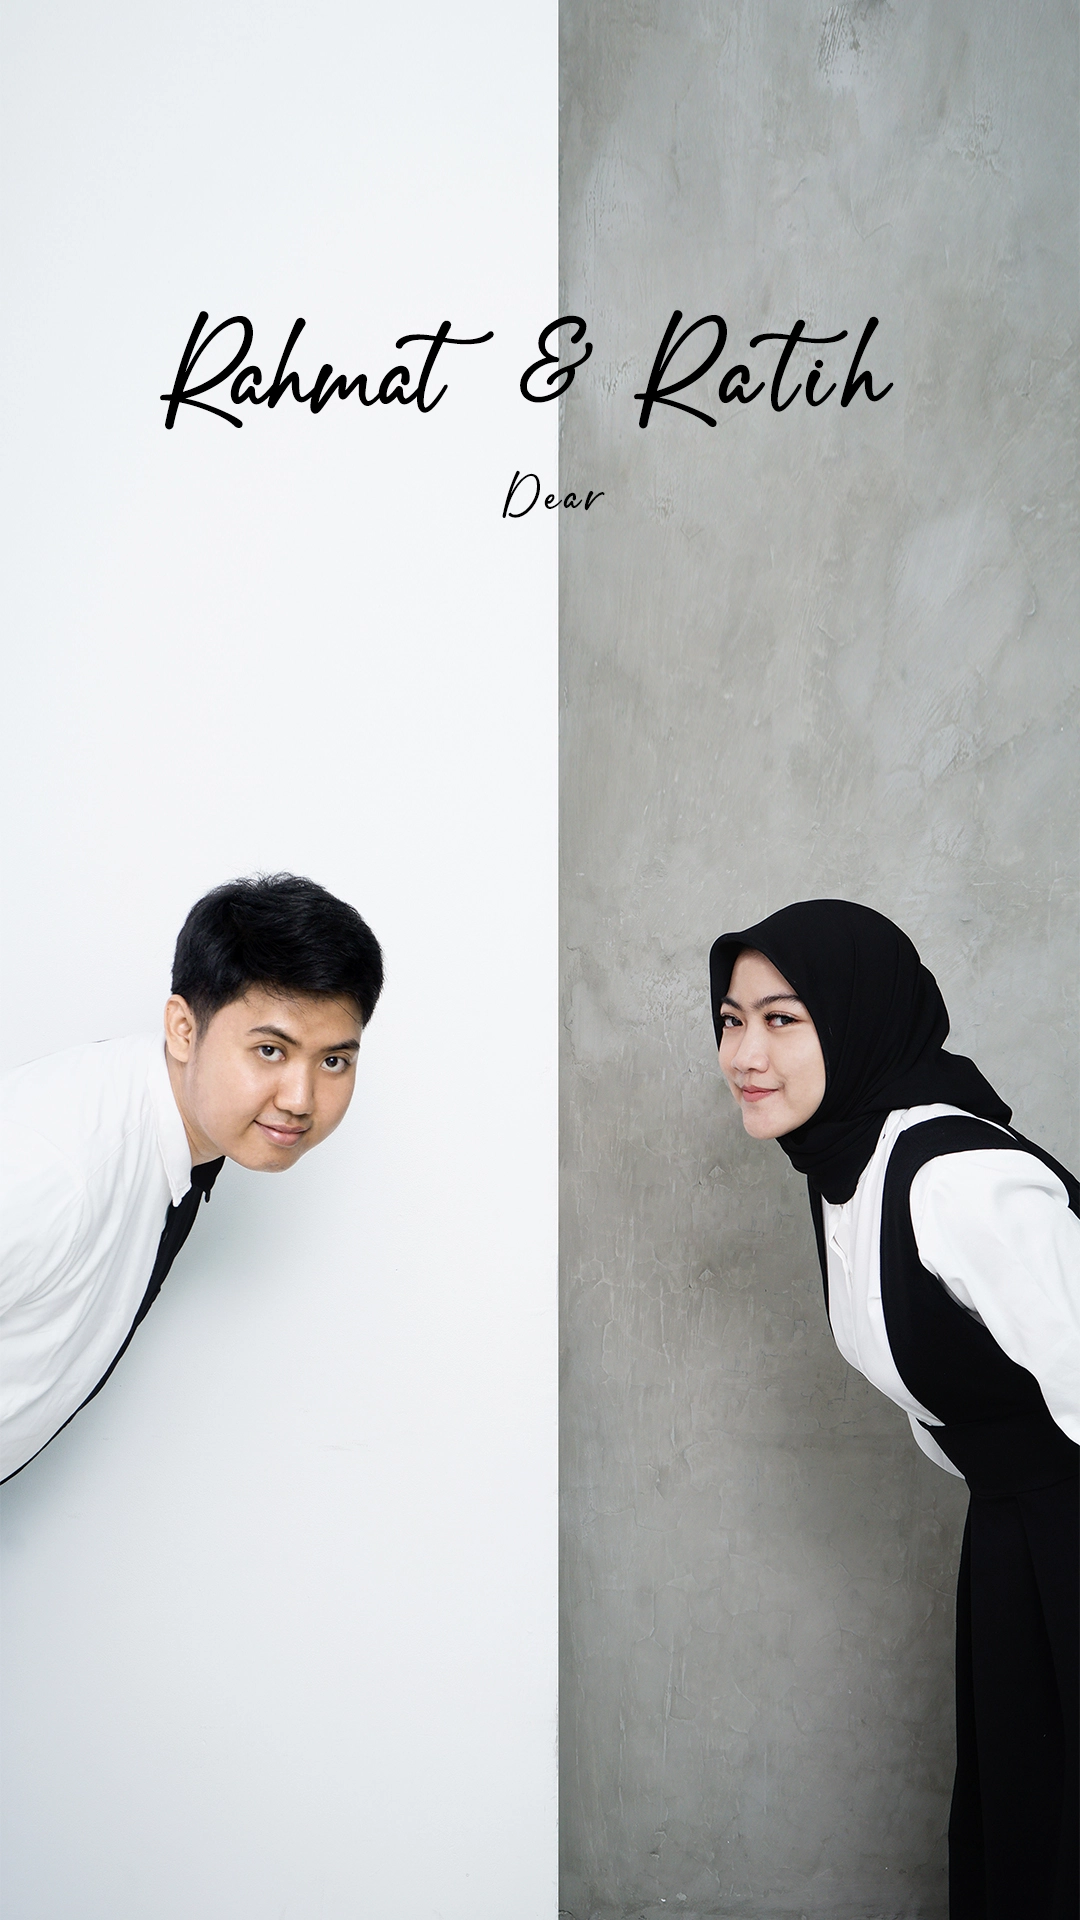
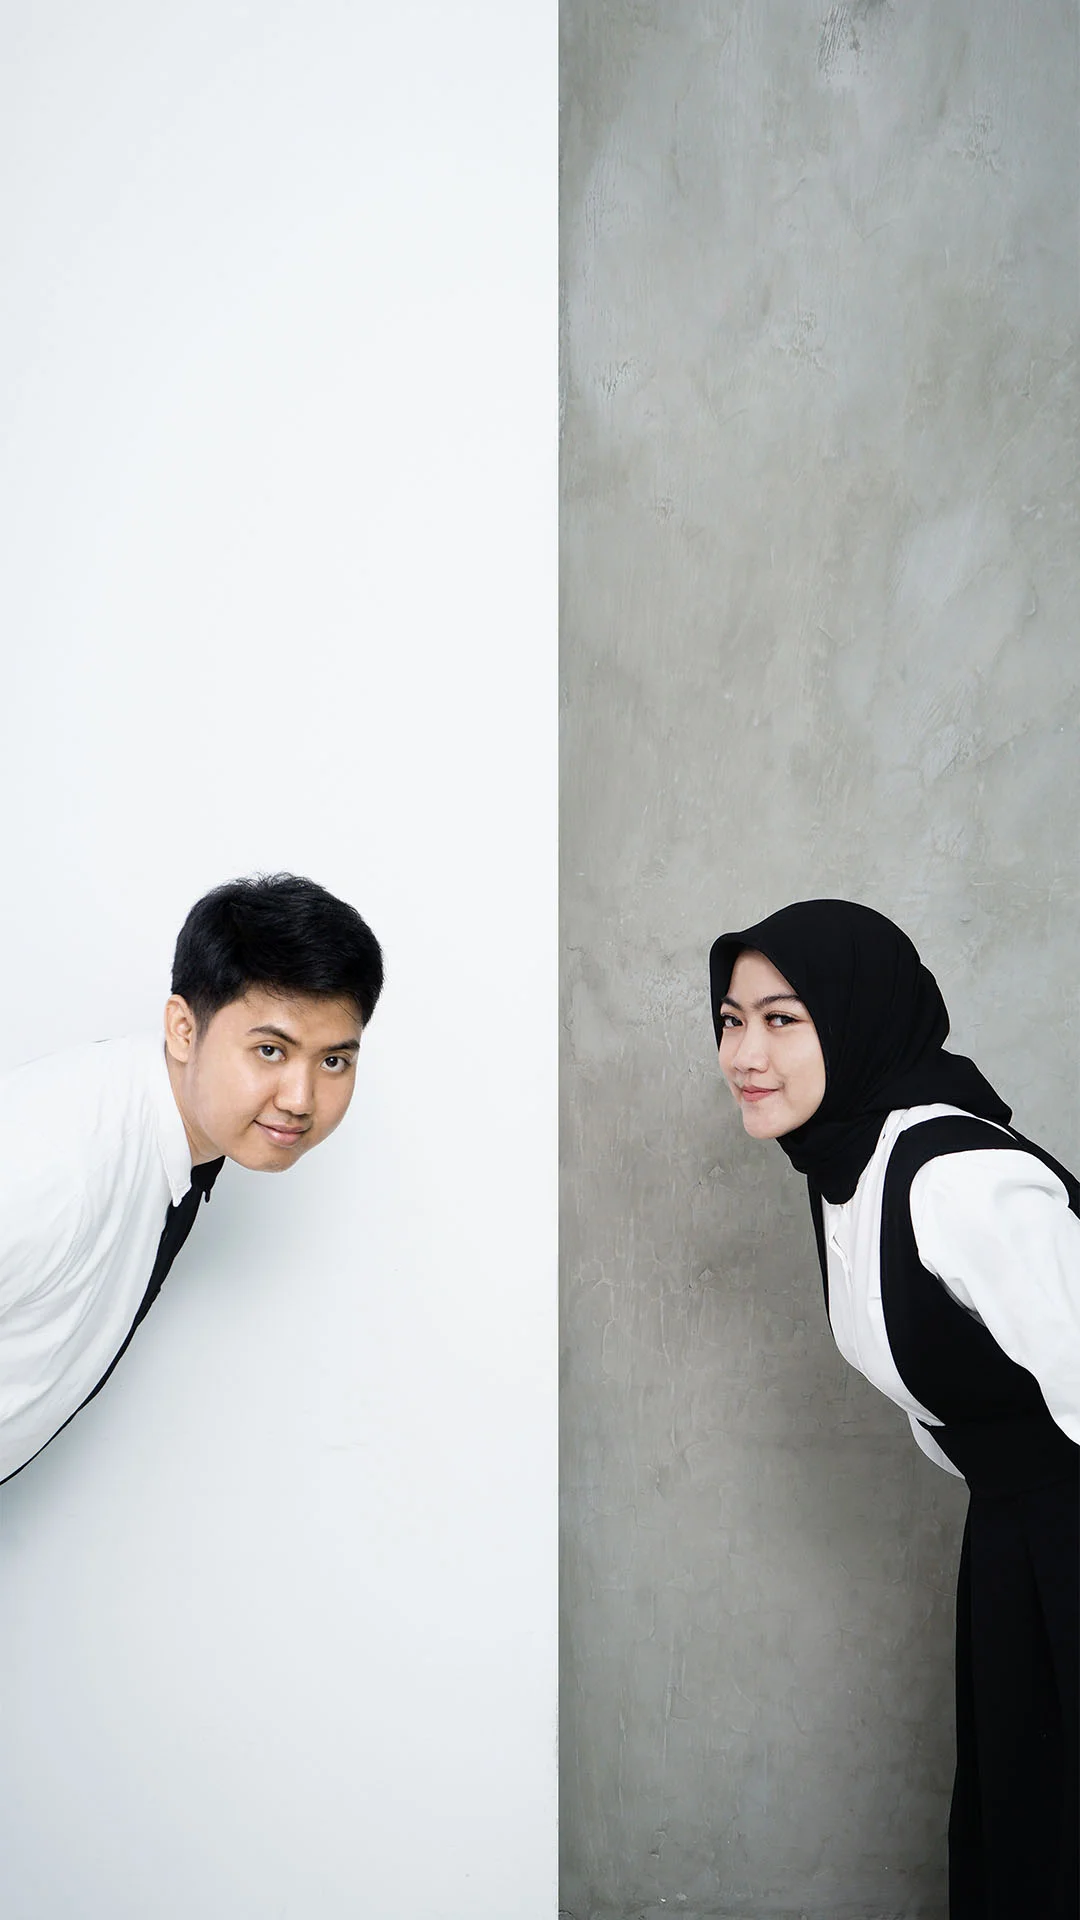
update

diff --git a/index.html b/index.html
@@ -347,10 +347,17 @@
     <div class="modal fade" id="exampleModal" tabindex="-1" aria-hidden="true">
         <div class="modal-dialog modal-dialog-centered modal-fullscreen m-0">
             <div class="modal-content modal-cover p-0">
-                <div class="d-flex justify-content-center align-items-center" style="height: 100vh !important;">
+                <div style="height: 100vh !important;">
+                    <div class="text-center" style="padding-top: 8em;">
+                        <span class="text-cover">Rahmat</span>
+                        <span class="text-cover px-4">&</span>
+                        <span class="text-cover me-3">Ratih</span>
+                    </div>
+                    <div class="text-center m-0">
+                        <span style="font-size: 1.2em; color: black; font-family: 'SweetRomance'; letter-spacing: .2em; margin-left: 1em;">Dear</span>
+                    </div>
                     <div class="text-center">
                         <div id="namatamu"></div>
-                        <div class="cropper mb-4 mx-auto"></div>
                         <button type="button" class="btn btn-light shadow rounded-4 mt-4" data-bs-toggle="modal"
                             data-bs-target="#exampleModal" onclick="buka()">
                             <i class="fa-solid fa-envelope-open me-2"></i>Buka Undangan

diff --git a/css/custom.min.css b/css/custom.min.css
@@ -42,6 +42,13 @@ body {
     color: #5f3d22;
 }
 
+.text-cover{
+    font-family: 'SweetRomance';
+    font-size: 3em;
+    color: black;
+    letter-spacing: 1px;
+}
+
 @media only screen and (max-width: 767px) {
     body {
         background-image: url('../assets/images/bg-mobile.webp');
@@ -106,6 +113,7 @@ body {
 
     #love-story {
         background-image: url('../assets/images/love-story.webp');
+        background-size: contain;
     }
 
     #penutup {
